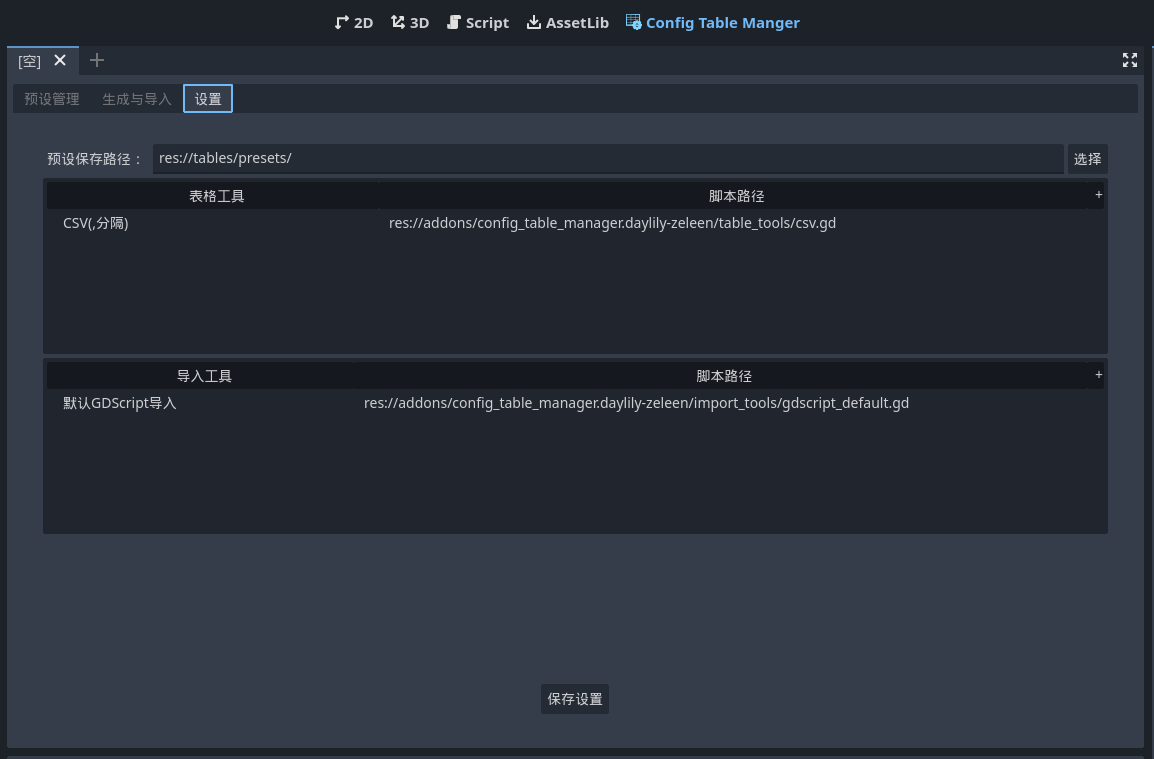
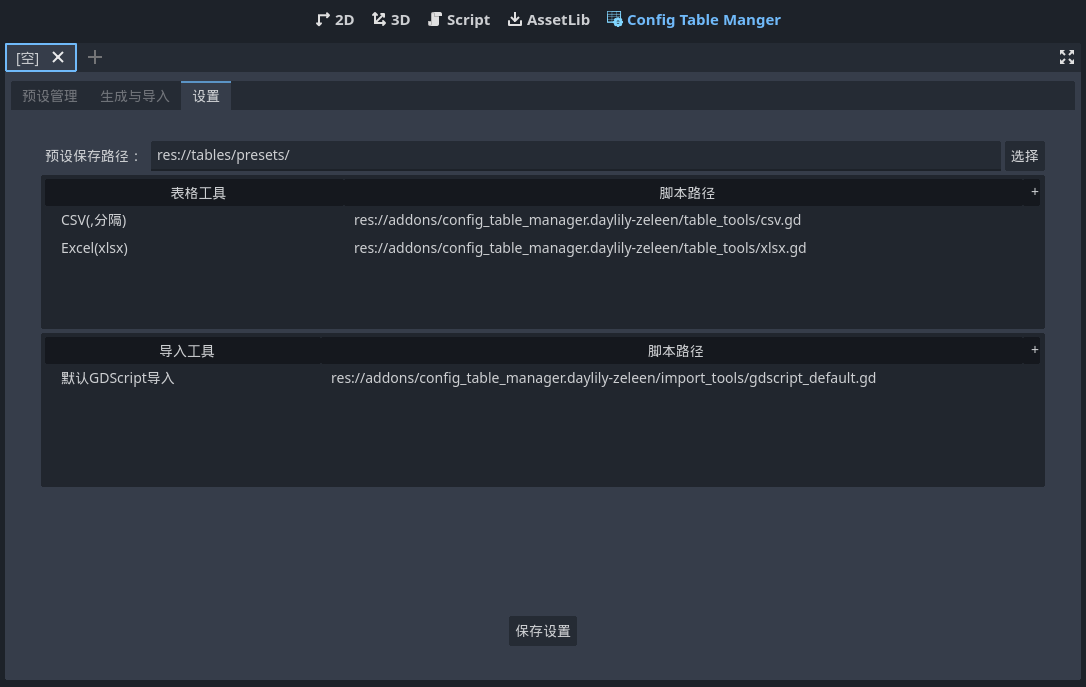
更新readme

diff --git a/README.md b/README.md
@@ -10,6 +10,7 @@
 2. 生成与导入预设可保存，方便反复调节。
 3. 支持重新生成表格时自动备份与合并。
 4. 高度自定义，可添加自己的表格工具与导入工具，生成符合您需求的的表格文件或导入为你需要的资源格式。
+5. 可添加生成修改器与导入修改器，在表格生成与导入流程中插入你的自定义落以修改要生成或导入的数据。
 
 ## 概念
 
@@ -17,10 +18,12 @@
     描述表格如何生成和如何导入
 2. 表格工具(Table Tool):
     用于解析表格和生成表格的工具脚本, 继承自 `res://addons/config_table_manager.daylily-zeleen/table_tools/table_tool.gd`。
-    内置 csv 表格工具。
 3. 导入工具(Import Tool)
     用于导入表格, 继承自 `res://addons/config_table_manager.daylily-zeleen/import_tools/import_tool.gd`。
-    内置默认的GDScript导入工具。
+4. 生成修改器(Generate Modifier):
+    用于在表格生成流程中插入自定义逻辑，以修改要生成的数据，这对程序化生成数据非常有用。继承自`res://addons/config_table_manager.daylily-zeleen/scripts/generate_modifier.gd`。
+5. 导入修改器(Import Modifier):
+    用于在导入流程中插入自定义逻辑，以修改要导入的数据，这对导入数据去重与后处理非常有用。继承自`res://addons/config_table_manager.daylily-zeleen/scripts/import_modifier.gd`。
 
 ## 如何开始
 
@@ -33,7 +36,7 @@
 
    其他栏目均为进阶选项，如非必要无需修改。
    ![image](.doc/preset_manage.png)
-4. 跳转到“生成与导入”页面，在左侧勾选你需要的预设进行生成（或全部生成），生成的表格默认在`res://tables/`路径下（默认生成CSV表格）。
+4. 跳转到“生成与导入”页面，在左侧勾选你需要的预设进行生成（或全部生成），生成的表格默认在`res://tables/`路径下（默认生成CSV表格,**支持生成Excel(xlsx)**）。
    ![image](.doc/gen_and_import.PNG)
 5. 到外部编辑生成的csv表格(这里推荐使用VSCode并使用 "Edit csv" 插件进行编辑),注意使用utf8编码。
 6. 回到编辑器中的“生成与导入”页面，在右侧勾选你需要的预设进行导入（或全部导入），导入的资源默认在`res://tables/imported/`路径下（默认导入为GDScript脚本）。
@@ -41,12 +44,35 @@
 
 如有疑惑，请先在[Github页面上](https://github.com/Daylily-Zeleen/ConfigTableManager)下载该项目以查看示例配置。
 
+## 内置工具
+
+### 1. 表格工具
+
+|表格工具|说明|选项参数|参数说明|
+|-|-|-|-|
+|CSV(,分隔)|解析与生成使用","分隔的csv表格|N/A|N/A|
+|Excel(xlsx)|解析与生成xlsx，生成时如果指定文件已存在，仅对指定工作表进行覆盖|sheet=your_sheet_name|sheet:**必选**，指定该预设对应的工作表|
+
+### 2. 导入工具
+
+|导入工具|说明|选项参数|参数说明|
+|-|-|-|-|
+|默认GDScript导入|将表格数据导入为GDScript（适合**数据量小**的场合）|generate_class_name|可选，如果有该选项且预设指定table_name是合法的标识符，则使用table_name生成全局类名(class_name)|
+
 ## 自定义工具
+
+### 表格工具与导入工具
 
    ![image](.doc/settings.PNG)
 
 1. 扩展`res://addons/config_table_manager.daylily-zeleen/table_tools/table_tool.gd`并重写其中的虚方法以实现你的表格工具，用于解析和生成符合你需求的表格。将该脚本添加到设置中，它将出现在“预设管理”页面以供使用。
 2. 扩展`res://addons/config_table_manager.daylily-zeleen/import_tools/import_tool.gd`并重写其中的虚方法以实现你的导入，用于生成符合你需求的导入资源。将该脚本添加到设置中，它将出现在“预设管理”页面以供使用。
+
+### 自定义生成修改器与导入修改器
+
+1. 扩展`res://addons/config_table_manager.daylily-zeleen/scripts/generate_modifier.gd`并重写其中的虚方法以实现你的生成修改器。
+2. 扩展`res://addons/config_table_manager.daylily-zeleen/scripts/import_modifier.gd`并重写其中的虚方法以实现你的导入修改器。
+修改器是针对某一预设起作用，为了让你的预设应用修改器，需要在预设的`生成选项`与`导入选项`中“表格生成修改器”与“表格导入修改器”栏目中选择你的修改器脚本（记得保存预设）。
 
 ## 欢迎提交你的表格工具与导入工具
 
